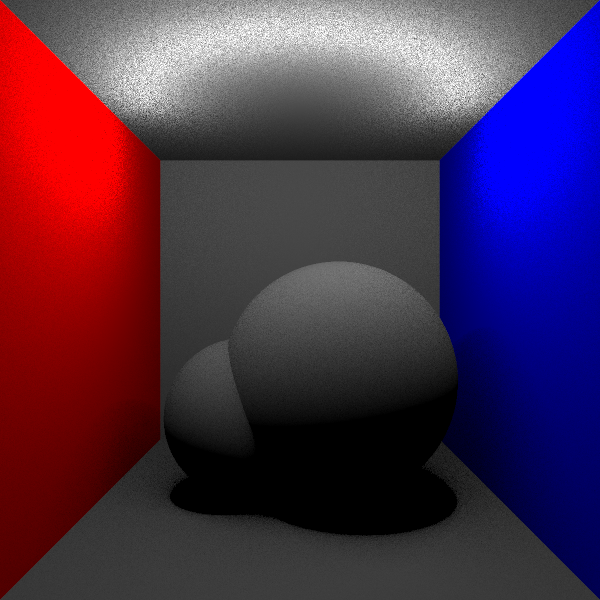
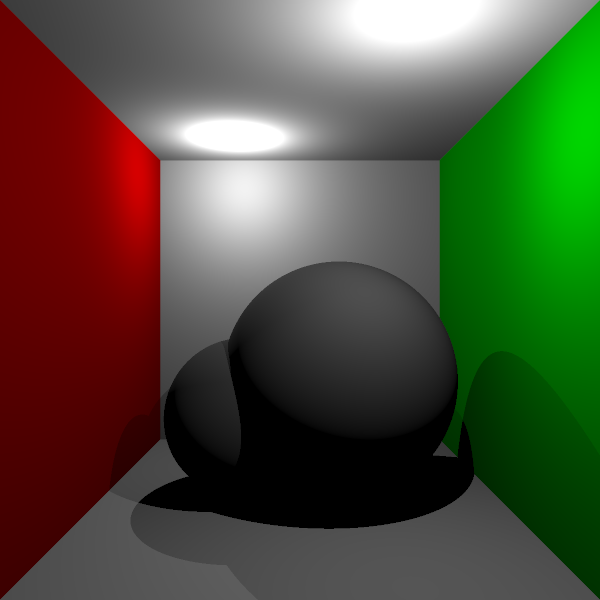
arealight wip...

diff --git a/Main.py b/Main.py
@@ -33,20 +33,23 @@ def main():
 
 	redLambert = Material(diffuseColor=Vector(0.9,0,0))
 	blueLambert = Material(diffuseColor=Vector(0,0,0.9))
+	greenLambert = Material(diffuseColor=Vector(0,0.9,0))
+	whiteLambert = Material(diffuseColor=Vector(0.9,0.9,0.9))
 	#-------Scene--------
 	#important! This is a right handed coordinate system!
 	sphere01 = Sphere(Vector(-15,-30,-136),20)
 	sphere02 = Sphere(Vector(10,-20,-136),30)
-	plane01 = Plane(Vector(0,-50,-136),10,Vector(0,1,0)) #bottom wall
-	plane02 = Plane(Vector(-50,0,-136),10,Vector(1,0,0),redLambert) #left wall
-	plane03 = Plane(Vector(0,0,-186),10,Vector(0,0,1)) #back wall
-	plane04 = Plane(Vector(50,0,-136),10,Vector(-1,0,0),blueLambert) #right wall
-	plane05 = Plane(Vector(0,50,-136),10,Vector(0,-1,0)) #top wall
-	light01 = DiskLight(Vector(0,40,-136),40) #light source on the top
-	# light02 = PointLight(Vector(-20,40,-100))
-	# light03 = PointLight(Vector(20,30,-90))
+	plane01 = Plane(Vector(0,-50,-136),Vector(0,1,0),material=whiteLambert) #bottom wall
+	plane02 = Plane(Vector(-50,0,-136),Vector(1,0,0),material=redLambert) #left wall
+	plane03 = Plane(Vector(0,0,-186),Vector(0,0,1),material=whiteLambert) #back wall
+	plane04 = Plane(Vector(50,0,-136),Vector(-1,0,0),material=greenLambert) #right wall
+	plane05 = Plane(Vector(0,50,-136),Vector(0,-1,0),material=whiteLambert) #top wall
+	testPlane = Plane(Vector(0,30,-136),Vector(0,-1,0),w=20,h=20)
+	#light01 = DiskLight(Vector(0,40,-150),30) #light source on the top
+	light02 = PointLight(Vector(-20,40,-160))
+	light03 = PointLight(Vector(20,30,-90))
 
-	newScene = Scene({"geometry":[sphere01,sphere02,plane01,plane02,plane03,plane04,plane05],"light":[light01]})
+	newScene = Scene({"geometry":[sphere01,sphere02,plane01,plane02,plane03,plane04,plane05],"light":[light02,light03]})
 
 	cam = Camera(Vector(0,0,0),Vector(0,0,1),60)
 

diff --git a/RenderProcess.py b/RenderProcess.py
@@ -87,16 +87,16 @@ class RenderProcess(multiprocessing.Process):
 					shadowRayDir = eachLight.pos - hitResult[1]
 	 			#lambert is the cosine
 				lambert = hitResult[2].dot(shadowRayDir.normalized())
-				lambert = max(lambert,0) #clamp the values below 0
-				offsetOrigin = hitResult[1] + shadowRayDir.normalized() * 0.0001 #slightly offset the ray start point because the origin itself is a root
-				shadowRay = Ray(offsetOrigin,shadowRayDir)
-				temp_t = shadowRayDir.length() #length form hit point to light
-				shadowRayResult = [temp_t]
-				inShadow = self.scene.getClosestIntersection(shadowRay,shadowRayResult)
-				if not inShadow:
-					litColor = litColor + eachLight.color * (eachLight.intensity * lambert / (4*math.pi*math.pow(temp_t,2)))
+				if lambert > 0:
+					offsetOrigin = hitResult[1] + shadowRayDir.normalized() * 0.0001 #slightly offset the ray start point because the origin itself is a root
+					shadowRay = Ray(offsetOrigin,shadowRayDir)
+					temp_t = shadowRayDir.length() #length form hit point to light
+					shadowRayResult = [temp_t]
+					inShadow = self.scene.getClosestIntersection(shadowRay,shadowRayResult)
+					if not inShadow:
+						litColor = litColor + eachLight.color * (eachLight.intensity * lambert / (4*math.pi*math.pow(temp_t,2)))
 
-			litColorAvg = litColor / eachLight.samples * 2 * math.pi
+			litColorAvg = litColor / eachLight.samples
 
 		matColor = self.scene.getObjectById(hitResult[3]).material.diffuseColor
 

diff --git a/Geo/Plane.py b/Geo/Plane.py
@@ -1,17 +1,28 @@
 import math
 from Geo.Geometry import Geometry
 from Geo.Material import Material
+from Geo.Vector import Vector
 
 class Plane(Geometry):
-	def __init__(self,pos,size,normal,material=Material()):
+	def __init__(self,pos,normal,w=None,h=None,material=Material()):
 		super().__init__(material)
+		self.type = "InfinitePlane"
+		if w != None and h != None:
+			#FinitePlane
+			self.Type = "Plane"
+			self.width = w
+			self.height = h
+			self.p0 = pos + Vector(w/2,0,h/2)
+			self.p1 = pos + Vector(-w/2,0,h/2)
+			self.p2 = pos + Vector(-w/2,0,-h/2)
+			self.p3 = pos + Vector(w/2,0,-h/2)
+
 		self.pos = pos
-		self.size = size
 		self.normal = normal
 		self.epsilon = 0.0001
 
 	def type(self):
-		return "Plane"
+		return self.type
 
 	def getIntersection(self,ray,closestHit,result):
 		#t = (anyplanePoint - ray.origin).dot(plane.normal) / (ray.dir.dot(plane.normal))

diff --git a/Geo/Material.py b/Geo/Material.py
@@ -2,9 +2,12 @@ from Geo.Vector import Vector
 
 class Material:
     def __init__(self,diffuseColor=Vector(0.18,0.18,0.18),diffuseWeight = 1.0,
-                reflectionColor=Vector(0,0,0),reflectionWeight = 0):
+                reflectionColor=Vector(0,0,0),reflectionWeight = 0,
+                emissionColor=Vector(1,1,1),emissionAmount=0):
         #Default material values
         self.diffuseColor = diffuseColor
         self.diffuseWeight = diffuseWeight
         self.reflectionColor = reflectionColor
         self.reflectionWeight = reflectionWeight
+        self.emissionColor = emissionColor
+        self.emissionAmount = emissionAmount

diff --git a/Geo/Triangle.py b/Geo/Triangle.py
@@ -1,0 +1,5 @@
+from Geo.Geometry import Geometry
+
+class Triangle(Geometry):
+    def __init__(self,p1,p2,p3):
+        super().__init__()
